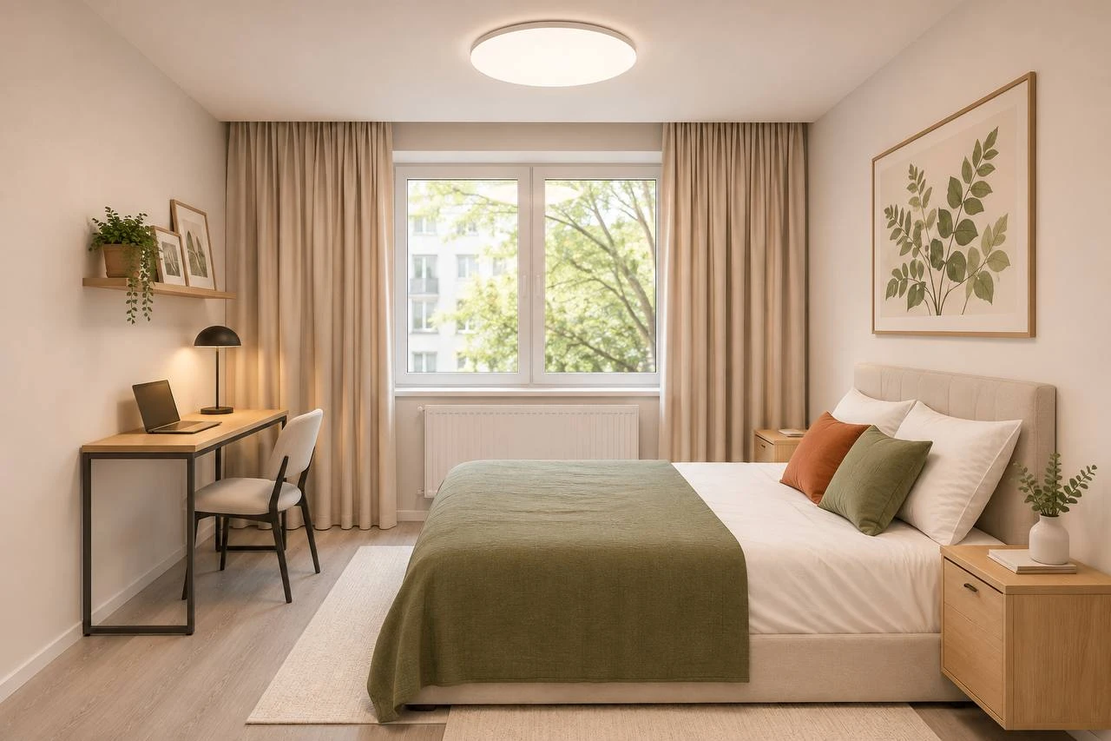
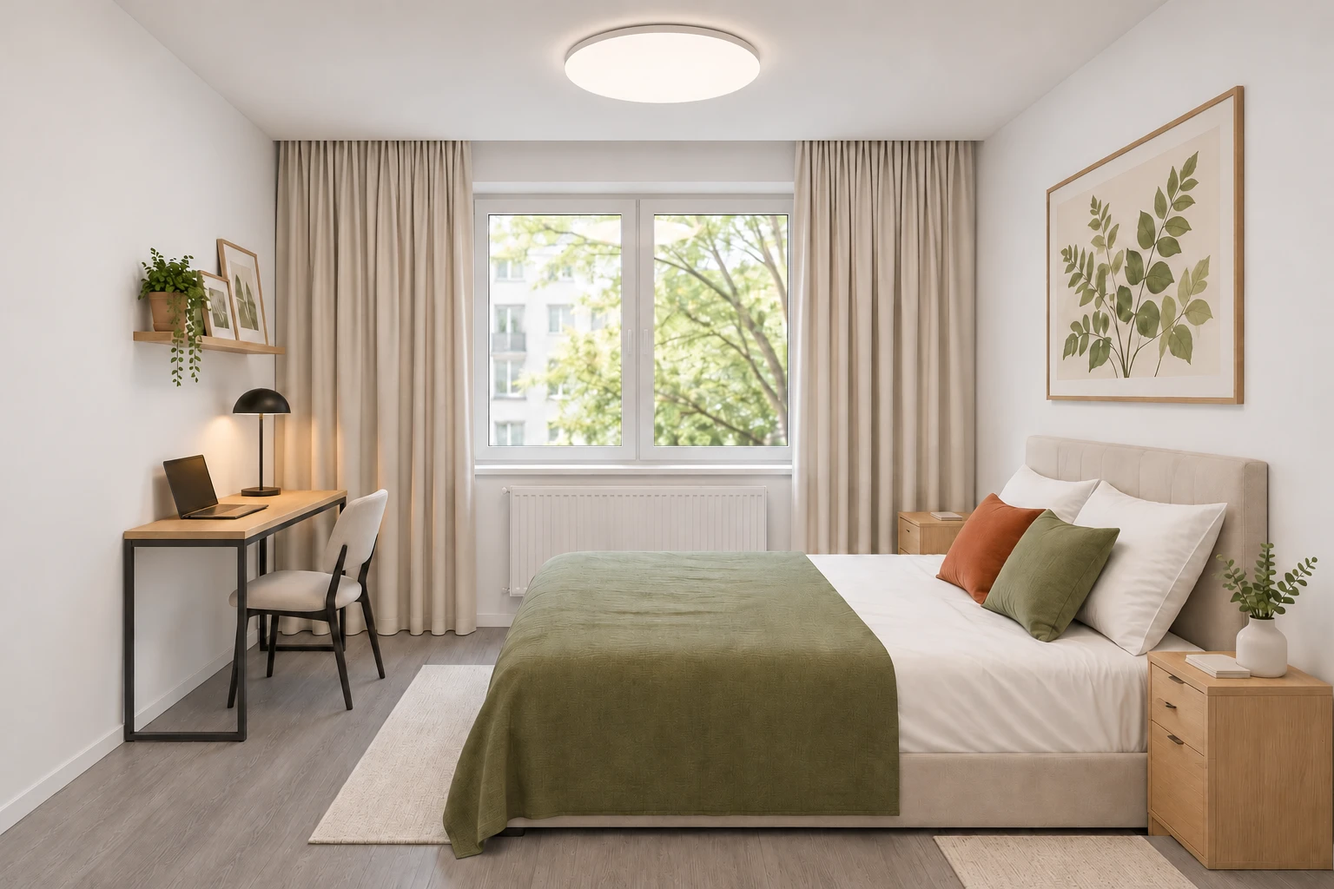
Спальня: новые рендеры, круглый светильник застройщика, без бра

diff --git a/docs/razmery.html b/docs/razmery.html
@@ -174,7 +174,7 @@ html[data-v="belyj"] [data-only="shalfej"],html[data-v="shalfej"] [data-only="be
 </head>
 <body>
 <div class="topbar"><div class="topbar-in"><div class="vsw"><span class="lbl">Вариант</span><button type="button" data-pick="belyj" aria-pressed="false"><span class="sw" style="background:#F4F3EF"></span>Белый</button><button type="button" data-pick="shalfej" aria-pressed="false"><span class="sw" style="background:#8E9C8F"></span>Шалфей</button></div><nav class="nav" aria-label="Страницы"><a href="index.html" data-keep="index.html">Визуализации</a><a href="planirovki.html" data-keep="planirovki.html">Планировки</a><a href="razmery.html" data-keep="razmery.html" aria-current="page">Размеры</a><a href="podbor.html" data-keep="podbor.html">Общая</a><a href="prihozhaya.html" data-keep="prihozhaya.html">Прихожая</a><a href="kuhnya.html" data-keep="kuhnya.html">Кухня</a><a href="stolovaya.html" data-keep="stolovaya.html">Столовая</a><a href="gostinaya.html" data-keep="gostinaya.html">Гостиная</a><a href="spalnya.html" data-keep="spalnya.html">Спальня</a><a href="rabochee-mesto.html" data-keep="rabochee-mesto.html">Рабочее место</a></nav></div></div>
-<div class="wrap" style="margin-top:28px"><header><div class="eyebrow">Шишкина · Финал 2</div><h1>Размеры и пределы</h1><p class="lead">Максимумы посчитаны по плану «Финал 2» в масштабе (1 клетка ≈ 100 мм) и проходам из него. Это ориентиры при подборе замены, а не замеры: высоту потолка, дверь санузла, щиток и розетки под ТВ ещё нужно замерить.</p><div class="legend"><div><span class="chip tight">впритык</span> Впритык: запас до 5 см или нет стандартных вариантов. Размер брать именно такой.</div><div><span class="chip check">проверить</span> Проверить: размер или комплектация не подтверждены, нужна сверка с карточкой или замером.</div></div></header><section><h2>Палитра <small>Из листа «Палитра» и «Цвета и материалы» (вариант Финал 2). Оттенки с картинки, примерные.</small></h2><h3 class="palh">Уже есть, не меняем</h3><div class="pal"><div><i style="background:#EBEBEA"></i><span>Стены<br><small>почти белые</small></span></div><div><i style="background:#FFFFFF"></i><span>Плинтус, двери, потолок<br><small>белые</small></span></div><div><i style="background:#878684"></i><span>Ламинат<br><small>серый дуб</small></span></div><div><i style="background:#4B4A48"></i><span>Керамогранит<br><small>«камень», кухонная зона</small></span></div></div><h3 class="palh">Добавляем</h3><div class="pal"><div><i style="background:#8E9C8F"></i><span>Шалфей<br><small>диван, низ кухни в «Шалфее»</small></span></div><div><i style="background:#6F7559"></i><span>Олива<br><small>покрывало, подушки</small></span></div><div><i style="background:#CDB99D"></i><span>Дуб натуральный<br><small>стол, тумбы, рамы</small></span></div><div><i style="background:#E6DFD3"></i><span>Лён<br><small>шторы, ковры, плед</small></span></div><div><i style="background:#F2F0EC"></i><span>Белый матовый<br><small>шкафы, верх кухни</small></span></div><div><i style="background:#C9C7C2"></i><span>Камень / бетон<br><small>столешница</small></span></div><div><i style="background:#B7765A"></i><span>Терракота<br><small>мелочи: вазы, подушка, кашпо</small></span></div><div><i style="background:#2F3033"></i><span>Графит<br><small>ручки, ножки, светильники</small></span></div></div></section><section><h2>Прихожая <small><a href="prihozhaya.html" data-keep="prihozhaya.html">страница комнаты</a></small></h2><div class="tblwrap"><table class="sizes"><thead><tr><th>Что</th><th>Взято в подборе</th><th>Цвет по дизайну</th><th>Максимум</th><th>Что ограничивает</th></tr></thead><tbody><tr class=""><td>Обувница</td><td class="hv">60×24 см, высота 104</td><td class="cl"><span class="dots"><i style="background:#CDB99D"></i><i style="background:#2F3033"></i></span>Дуб натуральный, ручки графит или без ручек</td><td class="mx">ширина ≤ 90, глубина ≤ 30</td><td class="why">Прихожая шириной 149 см: вдоль обувницы остаётся проход ≥ 115 см, дверь санузла открывается внутрь.</td></tr><tr class=""><td>Зеркало</td><td class="hv">40×150 см</td><td class="cl"><span class="dots"><i style="background:#CDB99D"></i></span>Тонкая рама дуб, в тон обувнице и рамам постеров</td><td class="mx">ширина ≤ 45, верх на 185–190 см</td><td class="why">Правая стена 188 см: обувница, крючки и зеркало стоят рядом, нужны просветы между ними.</td></tr><tr class=""><td>Крючки (планка)</td><td class="hv">5 штук, на 160–170 см</td><td class="cl"><span class="dots"><i style="background:#2F3033"></i></span>Графит / чёрный металл<span class="pickline"><span class="dots"><i style="background:#2F3033"></i><i style="background:#6B4A32"></i></span><b>В подборе:</b> Чёрный/орех: планка из тёмного ореха</span></td><td class="mx">длина ≤ 60 см</td><td class="why">Не шире обувницы под ними.</td></tr></tbody></table></div></section><section><h2>Кухня <small><a href="kuhnya.html" data-keep="kuhnya.html">страница комнаты</a></small></h2><div class="tblwrap"><table class="sizes"><thead><tr><th>Что</th><th>Взято в подборе</th><th>Цвет по дизайну</th><th>Максимум</th><th>Что ограничивает</th></tr></thead><tbody><tr class="check"><td>Кухонный гарнитур<span class="chip check">проверить</span></td><td class="hv">240×60 см, высота 222 (4 модуля по 60: мойка, шкаф, варка + духовка, столешница)</td><td class="cl"><span data-only="belyj"><span class="dots"><i style="background:#F2F0EC"></i></span>Вся кухня белая матовая: низ и верх до потолка<span class="pickline"><span class="dots"><i style="background:#F2F0EC"></i></span><b>В подборе:</b> Белый Техно-6, верх 222 см (не до потолка)</span></span><span data-only="shalfej"><span class="dots"><i style="background:#8E9C8F"></i><i style="background:#F2F0EC"></i></span>Низ шалфей #8E9C8F, верх белый матовый до потолка<span class="pickline"><span class="dots"><i style="background:#A5B5A0"></i></span><b>В подборе:</b> Зелёный Техно-6 весь, верх тоже зелёный, 222 см</span></span></td><td class="mx">длина вместе с холодильником ≤ 297 см, глубина ≤ 60</td><td class="why">От короба стояка до окна 297 см. Проход до дивана 145 см, не меньше 90.<span class="flagnote check">Фиксированный набор 240 см, модули не поменять. Высота 222 см: потолок не замерен. Входит ли столешница в комплект, не подтверждено.</span></td></tr><tr class="tight"><td>Холодильник<span class="chip tight">впритык</span></td><td class="hv">54×144 см (глубину проверить по карточке)</td><td class="cl"><span class="dots"><i style="background:#F2F0EC"></i></span>Белый</td><td class="mx">ширина ≤ 57, глубина ≤ 65</td><td class="why">297 см вдоль стены минус гарнитур 240 см. Гарнитур Техно-6 фиксированный (4 модуля по 60), поэтому холодильник 54 см встаёт с запасом 3 см, его закроет доборная планка. Холодильник 60 возможен только с другим гарнитуром, например 230 см (3×60 + 50). До стула у стола остаётся 83 см.<span class="flagnote tight">Стандартные отдельностоящие 60 см не встанут, подходят только 54–57. Глубину Maunfeld проверить по карточке.</span></td></tr><tr class=""><td>Варочная панель</td><td class="hv">60 см, 4 конфорки</td><td class="cl"><span class="dots"><i style="background:#1E1F21"></i></span>Чёрное стекло</td><td class="mx">ширина ≤ 60</td><td class="why">Ширина модуля.</td></tr><tr class=""><td>Духовой шкаф</td><td class="hv">59,5×59×52,5 см</td><td class="cl"><span class="dots"><i style="background:#1E1F21"></i></span>Чёрное стекло<span class="pickline"><span class="dots"><i style="background:#2F3033"></i></span><b>В подборе:</b> Чёрный/серый</span></td><td class="mx">ширина ≤ 60</td><td class="why">Встраивается в модуль 60 под варочной панелью.</td></tr><tr class=""><td>Мойка</td><td class="hv">50,5×51 см</td><td class="cl"><span class="dots"><i style="background:#2F3033"></i><i style="background:#C9C7C2"></i></span>Кварц графит или серый камень</td><td class="mx">ширина ≤ 55</td><td class="why">Встаёт в модуль 60.</td></tr></tbody></table></div></section><section><h2>Столовая <small><a href="stolovaya.html" data-keep="stolovaya.html">страница комнаты</a></small></h2><div class="tblwrap"><table class="sizes"><thead><tr><th>Что</th><th>Взято в подборе</th><th>Цвет по дизайну</th><th>Максимум</th><th>Что ограничивает</th></tr></thead><tbody><tr class="check"><td>Обеденный стол<span class="chip check">проверить</span></td><td class="hv">круглый Ø70 см</td><td class="cl"><span class="dots"><i style="background:#CDB99D"></i></span>Столешница дуб натуральный, ножки дуб<span class="pickline"><span class="dots"><i style="background:#F7F7F5"></i><i style="background:#D9B98F"></i></span><b>В подборе:</b> Белая столешница, ножки бук</span></td><td class="mx">Ø ≤ 80; раздвижной до 70×100</td><td class="why">От дивана до стола 75 см, не меньше 60. От холодильника до стула 83 см.<span class="flagnote check">Раздвижного круглого Ø70 в Лемане нет, текущий стол не раскладывается.</span></td></tr><tr class=""><td>Стулья</td><td class="hv">2 шт.</td><td class="cl"><span class="dots"><i style="background:#E6DFD3"></i><i style="background:#CDB99D"></i></span>Сиденье лён / светлая ткань, ножки дуб. Гостевой табурет дуб<span class="pickline"><span class="dots"><i style="background:#6E6E72"></i><i style="background:#2F3033"></i></span><b>В подборе:</b> Тёмно-серый велюр, ножки чёрный металл</span></td><td class="mx">2 за круглым Ø70, 3–4 только за раздвижным</td><td class="why">Третье место — гостевой табурет 43×45.</td></tr></tbody></table></div></section><section><h2>Гостиная <small><a href="gostinaya.html" data-keep="gostinaya.html">страница комнаты</a></small></h2><div class="tblwrap"><table class="sizes"><thead><tr><th>Что</th><th>Взято в подборе</th><th>Цвет по дизайну</th><th>Максимум</th><th>Что ограничивает</th></tr></thead><tbody><tr class="tight"><td>Диван<span class="chip tight">впритык</span></td><td class="hv">Belfor-3MH 200×97 см</td><td class="cl"><span class="dots"><i style="background:#BFC1BE"></i></span>Светло-серый велюр ~#BFC1BE, ножки дерево. Для «Белого» по дизайну был шалфей, решили серый: проще купить</td><td class="mx">ширина ≤ 207, глубина ≤ 100</td><td class="why">Диван у восточной стены. Вход в кухню между перегородкой и диваном 87 см, не меньше 80. До стола 75 см, не меньше 60.<span class="flagnote tight">Запас по ширине 3–5 см, по глубине 3 см (Belfor 97 при пределе 100). Не брать диван шире 207 и глубже 100.</span></td></tr><tr class="check"><td>Пуф<span class="chip check">проверить</span></td><td class="hv">80×45 см (на плане 80×57)</td><td class="cl"><span data-only="belyj"><span class="dots"><i style="background:#8E9C8F"></i></span>Шалфей #8E9C8F: акцент на сером диване</span><span data-only="shalfej"><span class="dots"><i style="background:#BFC1BE"></i></span>Светло-серый, как диван<span class="pickline"><span class="dots"><i style="background:#A8B5A0"></i></span><b>В подборе:</b> Светло-зелёный (не как диван)</span></span></td><td class="mx">≤ 90×60</td><td class="why">Стоит в ~30 см от дивана, до ТВ-тумбы остаётся ≥ 70 см.<span class="flagnote check">80×45: неясно, 45 — высота или глубина. На плане глубина 57. Сверить с карточкой.</span></td></tr><tr class="check"><td>Тумба под ТВ<span class="chip check">проверить</span></td><td class="hv">150×20×30 см</td><td class="cl"><span class="dots"><i style="background:#CDB99D"></i></span>Дуб натуральный, без ручек</td><td class="mx">ширина ≤ 180, глубина ≤ 30</td><td class="why">Центр по дивану, до восточной стены остаётся ≥ 15 см.<span class="flagnote check">Взята 150 см, на плане 160. Для ТВ 50″ хватает, но центр по дивану сдвинется.</span></td></tr><tr class=""><td>ТВ</td><td class="hv">50″, кронштейн до 55″</td><td class="cl"><span class="dots"><i style="background:#1E1F21"></i></span>Чёрный</td><td class="mx">не больше 50″</td><td class="why">От края дивана до экрана 1,4 м (около 1,8 м от глаз).</td></tr><tr class=""><td>Ковёр</td><td class="hv">160×230 см</td><td class="cl"><span class="dots"><i style="background:#E6DFD3"></i></span>Лён / молочный, короткий ворс, без рисунка</td><td class="mx">≤ 200×250</td><td class="why">Левый край не дальше торца дивана, в проход к кухне не выходит.</td></tr></tbody></table></div></section><section><h2>Спальня <small><a href="spalnya.html" data-keep="spalnya.html">страница комнаты</a></small></h2><div class="tblwrap"><table class="sizes"><thead><tr><th>Что</th><th>Взято в подборе</th><th>Цвет по дизайну</th><th>Максимум</th><th>Что ограничивает</th></tr></thead><tbody><tr class=""><td>Кровать</td><td class="hv">160×200 см</td><td class="cl"><span class="dots"><i style="background:#E6DFD3"></i><i style="background:#BFC1BE"></i></span>Светлый лён / светло-серая рогожка</td><td class="mx">ширина ≤ 160, длина ≤ 205</td><td class="why">Изголовьем к западной стене. До рабочего стола 67 см, не меньше 60. До шкафа 79 см.</td></tr><tr class="tight"><td>Прикроватные тумбы<span class="chip tight">впритык</span></td><td class="hv">40 см шириной (40×52×30)</td><td class="cl"><span class="dots"><i style="background:#CDB99D"></i></span>Дуб натуральный<span class="pickline"><span class="dots"><i style="background:#C9BBA6"></i></span><b>В подборе:</b> Дуб сонома (серее комано): сверить с остальным деревом</span></td><td class="mx">ширина ≤ 45, глубина ≤ 35</td><td class="why">Между кроватью и шкафом 79 см: тумба 40 оставляет около 40 см прохода.<span class="flagnote tight">Между кроватью и шкафом остаётся ~40 см прохода. Тумбы шире 45 не брать.</span></td></tr><tr class="tight"><td>Шкаф-купе<span class="chip tight">впритык</span></td><td class="hv">170×61 см, высота 220</td><td class="cl"><span class="dots"><i style="background:#F2F0EC"></i><i style="background:#C9CCCD"></i></span>Белый матовый, профиль белый, одна створка зеркало</td><td class="mx">ширина ≤ 171, глубина ≤ 64</td><td class="why">Ниша 171×64 см, ширину проверить по замеру. Высота до потолка, потолок не замерен.<span class="flagnote tight">Ниша 171 см, шкаф 170: запас 1 см. Точный замер ниши обязателен. Высота 220 см: потолок не замерен.</span></td></tr></tbody></table></div></section><section><h2>Рабочее место <small><a href="rabochee-mesto.html" data-keep="rabochee-mesto.html">страница комнаты</a></small></h2><div class="tblwrap"><table class="sizes"><thead><tr><th>Что</th><th>Взято в подборе</th><th>Цвет по дизайну</th><th>Максимум</th><th>Что ограничивает</th></tr></thead><tbody><tr class="tight"><td>Рабочий стол<span class="chip tight">впритык</span></td><td class="hv">100×50 см (высота 76)</td><td class="cl"><span class="dots"><i style="background:#CDB99D"></i><i style="background:#2F3033"></i></span>Столешница дуб, ножки графит<span class="pickline"><span class="dots"><i style="background:#2F3033"></i><i style="background:#B8926A"></i></span><b>В подборе:</b> Чёрный каркас, дуб крафт (теплее, рыжее)</span></td><td class="mx">глубина ≤ 52, длина ≤ 120</td><td class="why">Стол в углу у окна. До кровати 67 см при глубине 45, при 50 остаётся 62 см, не меньше 60.<span class="flagnote tight">Глубина 50 оставляет 62 см до кровати при минимуме 60. Стол глубже 52 не брать.</span></td></tr><tr class=""><td>Полка над столом</td><td class="hv">80×20 см</td><td class="cl"><span class="dots"><i style="background:#CDB99D"></i></span>Дуб натуральный<span class="pickline"><span class="dots"><i style="background:#C9BBA6"></i></span><b>В подборе:</b> Дуб сонома: сверить</span></td><td class="mx">ширина ≤ 100, глубина ≤ 25</td><td class="why">Не шире стола под ней.</td></tr></tbody></table></div></section><section id="series"><h2>Что брать одной серией</h2><div class="series"><article><h3>Дерево: светлый дуб без рыжины</h3><ul><li>Лион: обувница и ТВ-тумба уже одной серии, «дуб комано».</li><li>Спальня: тумбы Monofix и полка ТриЯ в «дубе сонома», а стол Leset в «дубе крафт», он теплее и рыжее. Всё стоит в одном кадре, стол лучше взять в «сонома».</li><li>Рамки Inspire Milo «дуб» сверить с остальным деревом по образцу.</li></ul></article><article><h3>Чёрный металл: один тон, матовый графит</h3><ul><li>Торшер, бра, настольная лампа, смеситель, ручки, кронштейн ТВ, ножки стульев: без глянца и хрома.</li><li>Крючки Domart «чёрный/орех»: основа из тёмного ореха, а нужен светлый дуб. Искать чёрные без ореховой планки.</li><li>Духовка Homsair «чёрный/серый» и варочная Simfer чёрная стоят рядом: посмотреть вживую.</li></ul></article><article><h3>Свет: везде 2700 K</h3><ul><li>LED-лента под шкафами (у Wolta цвет регулируется, выставить 2700), точки в потолке, бра, торшер.</li><li>Разная температура света в одной комнате портит вид сильнее всего.</li></ul></article><article><h3>Текстиль: одна партия</h3><ul><li>Шторы блэкаут (2 в гостиной и 2 в спальне, одна модель), оливковые подушки (2 шт.) и тюль покупать одним заказом, иначе оттенок отличается между партиями.</li><li>Покрывало Этель «оливковое» ближе к мятному, а подушки и диван оливковые. Проверить цвет по фото в отзывах или вживую.</li></ul></article><article><h3>Стулья: одна модель</h3><ul><li>Chic, велюр серый, ножки чёрные: тот же в столовой и у рабочего стола. Брать три сразу.</li></ul></article><article><h3>Белый: сверить подтон</h3><ul><li>Белый холодильник и белые фасады кухни в варианте «Белый» могут быть разного подтона. По возможности смотреть вживую или брать образцы рядом.</li></ul></article></div><p class="freeline">Можно не подбирать под одну серию: диван и пуф (разные ткани и цвета нужны для контраста), ковёр, коврики у кровати, постеры, вазы, растения.</p></section></div>
+<div class="wrap" style="margin-top:28px"><header><div class="eyebrow">Шишкина · Финал 2</div><h1>Размеры и пределы</h1><p class="lead">Максимумы посчитаны по плану «Финал 2» в масштабе (1 клетка ≈ 100 мм) и проходам из него. Это ориентиры при подборе замены, а не замеры: высоту потолка, дверь санузла, щиток и розетки под ТВ ещё нужно замерить.</p><div class="legend"><div><span class="chip tight">впритык</span> Впритык: запас до 5 см или нет стандартных вариантов. Размер брать именно такой.</div><div><span class="chip check">проверить</span> Проверить: размер или комплектация не подтверждены, нужна сверка с карточкой или замером.</div></div></header><section><h2>Палитра <small>Из листа «Палитра» и «Цвета и материалы» (вариант Финал 2). Оттенки с картинки, примерные.</small></h2><h3 class="palh">Уже есть, не меняем</h3><div class="pal"><div><i style="background:#EBEBEA"></i><span>Стены<br><small>почти белые</small></span></div><div><i style="background:#FFFFFF"></i><span>Плинтус, двери, потолок<br><small>белые</small></span></div><div><i style="background:#878684"></i><span>Ламинат<br><small>серый дуб</small></span></div><div><i style="background:#4B4A48"></i><span>Керамогранит<br><small>«камень», кухонная зона</small></span></div></div><h3 class="palh">Добавляем</h3><div class="pal"><div><i style="background:#8E9C8F"></i><span>Шалфей<br><small>диван, низ кухни в «Шалфее»</small></span></div><div><i style="background:#6F7559"></i><span>Олива<br><small>покрывало, подушки</small></span></div><div><i style="background:#CDB99D"></i><span>Дуб натуральный<br><small>стол, тумбы, рамы</small></span></div><div><i style="background:#E6DFD3"></i><span>Лён<br><small>шторы, ковры, плед</small></span></div><div><i style="background:#F2F0EC"></i><span>Белый матовый<br><small>шкафы, верх кухни</small></span></div><div><i style="background:#C9C7C2"></i><span>Камень / бетон<br><small>столешница</small></span></div><div><i style="background:#B7765A"></i><span>Терракота<br><small>мелочи: вазы, подушка, кашпо</small></span></div><div><i style="background:#2F3033"></i><span>Графит<br><small>ручки, ножки, светильники</small></span></div></div></section><section><h2>Прихожая <small><a href="prihozhaya.html" data-keep="prihozhaya.html">страница комнаты</a></small></h2><div class="tblwrap"><table class="sizes"><thead><tr><th>Что</th><th>Взято в подборе</th><th>Цвет по дизайну</th><th>Максимум</th><th>Что ограничивает</th></tr></thead><tbody><tr class=""><td>Обувница</td><td class="hv">60×24 см, высота 104</td><td class="cl"><span class="dots"><i style="background:#CDB99D"></i><i style="background:#2F3033"></i></span>Дуб натуральный, ручки графит или без ручек</td><td class="mx">ширина ≤ 90, глубина ≤ 30</td><td class="why">Прихожая шириной 149 см: вдоль обувницы остаётся проход ≥ 115 см, дверь санузла открывается внутрь.</td></tr><tr class=""><td>Зеркало</td><td class="hv">40×150 см</td><td class="cl"><span class="dots"><i style="background:#CDB99D"></i></span>Тонкая рама дуб, в тон обувнице и рамам постеров</td><td class="mx">ширина ≤ 45, верх на 185–190 см</td><td class="why">Правая стена 188 см: обувница, крючки и зеркало стоят рядом, нужны просветы между ними.</td></tr><tr class=""><td>Крючки (планка)</td><td class="hv">5 штук, на 160–170 см</td><td class="cl"><span class="dots"><i style="background:#2F3033"></i></span>Графит / чёрный металл<span class="pickline"><span class="dots"><i style="background:#2F3033"></i><i style="background:#6B4A32"></i></span><b>В подборе:</b> Чёрный/орех: планка из тёмного ореха</span></td><td class="mx">длина ≤ 60 см</td><td class="why">Не шире обувницы под ними.</td></tr></tbody></table></div></section><section><h2>Кухня <small><a href="kuhnya.html" data-keep="kuhnya.html">страница комнаты</a></small></h2><div class="tblwrap"><table class="sizes"><thead><tr><th>Что</th><th>Взято в подборе</th><th>Цвет по дизайну</th><th>Максимум</th><th>Что ограничивает</th></tr></thead><tbody><tr class="check"><td>Кухонный гарнитур<span class="chip check">проверить</span></td><td class="hv">240×60 см, высота 222 (4 модуля по 60: мойка, шкаф, варка + духовка, столешница)</td><td class="cl"><span data-only="belyj"><span class="dots"><i style="background:#F2F0EC"></i></span>Вся кухня белая матовая: низ и верх до потолка<span class="pickline"><span class="dots"><i style="background:#F2F0EC"></i></span><b>В подборе:</b> Белый Техно-6, верх 222 см (не до потолка)</span></span><span data-only="shalfej"><span class="dots"><i style="background:#8E9C8F"></i><i style="background:#F2F0EC"></i></span>Низ шалфей #8E9C8F, верх белый матовый до потолка<span class="pickline"><span class="dots"><i style="background:#A5B5A0"></i></span><b>В подборе:</b> Зелёный Техно-6 весь, верх тоже зелёный, 222 см</span></span></td><td class="mx">длина вместе с холодильником ≤ 297 см, глубина ≤ 60</td><td class="why">От короба стояка до окна 297 см. Проход до дивана 145 см, не меньше 90.<span class="flagnote check">Фиксированный набор 240 см, модули не поменять. Высота 222 см: потолок не замерен. Входит ли столешница в комплект, не подтверждено.</span></td></tr><tr class="tight"><td>Холодильник<span class="chip tight">впритык</span></td><td class="hv">54×144 см (глубину проверить по карточке)</td><td class="cl"><span class="dots"><i style="background:#F2F0EC"></i></span>Белый</td><td class="mx">ширина ≤ 57, глубина ≤ 65</td><td class="why">297 см вдоль стены минус гарнитур 240 см. Гарнитур Техно-6 фиксированный (4 модуля по 60), поэтому холодильник 54 см встаёт с запасом 3 см, его закроет доборная планка. Холодильник 60 возможен только с другим гарнитуром, например 230 см (3×60 + 50). До стула у стола остаётся 83 см.<span class="flagnote tight">Стандартные отдельностоящие 60 см не встанут, подходят только 54–57. Глубину Maunfeld проверить по карточке.</span></td></tr><tr class=""><td>Варочная панель</td><td class="hv">60 см, 4 конфорки</td><td class="cl"><span class="dots"><i style="background:#1E1F21"></i></span>Чёрное стекло</td><td class="mx">ширина ≤ 60</td><td class="why">Ширина модуля.</td></tr><tr class=""><td>Духовой шкаф</td><td class="hv">59,5×59×52,5 см</td><td class="cl"><span class="dots"><i style="background:#1E1F21"></i></span>Чёрное стекло<span class="pickline"><span class="dots"><i style="background:#2F3033"></i></span><b>В подборе:</b> Чёрный/серый</span></td><td class="mx">ширина ≤ 60</td><td class="why">Встраивается в модуль 60 под варочной панелью.</td></tr><tr class=""><td>Мойка</td><td class="hv">50,5×51 см</td><td class="cl"><span class="dots"><i style="background:#2F3033"></i><i style="background:#C9C7C2"></i></span>Кварц графит или серый камень</td><td class="mx">ширина ≤ 55</td><td class="why">Встаёт в модуль 60.</td></tr></tbody></table></div></section><section><h2>Столовая <small><a href="stolovaya.html" data-keep="stolovaya.html">страница комнаты</a></small></h2><div class="tblwrap"><table class="sizes"><thead><tr><th>Что</th><th>Взято в подборе</th><th>Цвет по дизайну</th><th>Максимум</th><th>Что ограничивает</th></tr></thead><tbody><tr class="check"><td>Обеденный стол<span class="chip check">проверить</span></td><td class="hv">круглый Ø70 см</td><td class="cl"><span class="dots"><i style="background:#CDB99D"></i></span>Столешница дуб натуральный, ножки дуб<span class="pickline"><span class="dots"><i style="background:#F7F7F5"></i><i style="background:#D9B98F"></i></span><b>В подборе:</b> Белая столешница, ножки бук</span></td><td class="mx">Ø ≤ 80; раздвижной до 70×100</td><td class="why">От дивана до стола 75 см, не меньше 60. От холодильника до стула 83 см.<span class="flagnote check">Раздвижного круглого Ø70 в Лемане нет, текущий стол не раскладывается.</span></td></tr><tr class=""><td>Стулья</td><td class="hv">2 шт.</td><td class="cl"><span class="dots"><i style="background:#E6DFD3"></i><i style="background:#CDB99D"></i></span>Сиденье лён / светлая ткань, ножки дуб. Гостевой табурет дуб<span class="pickline"><span class="dots"><i style="background:#6E6E72"></i><i style="background:#2F3033"></i></span><b>В подборе:</b> Тёмно-серый велюр, ножки чёрный металл</span></td><td class="mx">2 за круглым Ø70, 3–4 только за раздвижным</td><td class="why">Третье место — гостевой табурет 43×45.</td></tr></tbody></table></div></section><section><h2>Гостиная <small><a href="gostinaya.html" data-keep="gostinaya.html">страница комнаты</a></small></h2><div class="tblwrap"><table class="sizes"><thead><tr><th>Что</th><th>Взято в подборе</th><th>Цвет по дизайну</th><th>Максимум</th><th>Что ограничивает</th></tr></thead><tbody><tr class="tight"><td>Диван<span class="chip tight">впритык</span></td><td class="hv">Belfor-3MH 200×97 см</td><td class="cl"><span class="dots"><i style="background:#BFC1BE"></i></span>Светло-серый велюр ~#BFC1BE, ножки дерево. Для «Белого» по дизайну был шалфей, решили серый: проще купить</td><td class="mx">ширина ≤ 207, глубина ≤ 100</td><td class="why">Диван у восточной стены. Вход в кухню между перегородкой и диваном 87 см, не меньше 80. До стола 75 см, не меньше 60.<span class="flagnote tight">Запас по ширине 3–5 см, по глубине 3 см (Belfor 97 при пределе 100). Не брать диван шире 207 и глубже 100.</span></td></tr><tr class="check"><td>Пуф<span class="chip check">проверить</span></td><td class="hv">80×45 см (на плане 80×57)</td><td class="cl"><span data-only="belyj"><span class="dots"><i style="background:#8E9C8F"></i></span>Шалфей #8E9C8F: акцент на сером диване</span><span data-only="shalfej"><span class="dots"><i style="background:#BFC1BE"></i></span>Светло-серый, как диван<span class="pickline"><span class="dots"><i style="background:#A8B5A0"></i></span><b>В подборе:</b> Светло-зелёный (не как диван)</span></span></td><td class="mx">≤ 90×60</td><td class="why">Стоит в ~30 см от дивана, до ТВ-тумбы остаётся ≥ 70 см.<span class="flagnote check">80×45: неясно, 45 — высота или глубина. На плане глубина 57. Сверить с карточкой.</span></td></tr><tr class="check"><td>Тумба под ТВ<span class="chip check">проверить</span></td><td class="hv">150×20×30 см</td><td class="cl"><span class="dots"><i style="background:#CDB99D"></i></span>Дуб натуральный, без ручек</td><td class="mx">ширина ≤ 180, глубина ≤ 30</td><td class="why">Центр по дивану, до восточной стены остаётся ≥ 15 см.<span class="flagnote check">Взята 150 см, на плане 160. Для ТВ 50″ хватает, но центр по дивану сдвинется.</span></td></tr><tr class=""><td>ТВ</td><td class="hv">50″, кронштейн до 55″</td><td class="cl"><span class="dots"><i style="background:#1E1F21"></i></span>Чёрный</td><td class="mx">не больше 50″</td><td class="why">От края дивана до экрана 1,4 м (около 1,8 м от глаз).</td></tr><tr class=""><td>Ковёр</td><td class="hv">160×230 см</td><td class="cl"><span class="dots"><i style="background:#E6DFD3"></i></span>Лён / молочный, короткий ворс, без рисунка</td><td class="mx">≤ 200×250</td><td class="why">Левый край не дальше торца дивана, в проход к кухне не выходит.</td></tr></tbody></table></div></section><section><h2>Спальня <small><a href="spalnya.html" data-keep="spalnya.html">страница комнаты</a></small></h2><div class="tblwrap"><table class="sizes"><thead><tr><th>Что</th><th>Взято в подборе</th><th>Цвет по дизайну</th><th>Максимум</th><th>Что ограничивает</th></tr></thead><tbody><tr class=""><td>Кровать</td><td class="hv">160×200 см</td><td class="cl"><span class="dots"><i style="background:#E6DFD3"></i><i style="background:#BFC1BE"></i></span>Светлый лён / светло-серая рогожка</td><td class="mx">ширина ≤ 160, длина ≤ 205</td><td class="why">Изголовьем к западной стене. До рабочего стола 67 см, не меньше 60. До шкафа 79 см.</td></tr><tr class="tight"><td>Прикроватные тумбы<span class="chip tight">впритык</span></td><td class="hv">40 см шириной (40×52×30)</td><td class="cl"><span class="dots"><i style="background:#CDB99D"></i></span>Дуб натуральный<span class="pickline"><span class="dots"><i style="background:#C9BBA6"></i></span><b>В подборе:</b> Дуб сонома (серее комано): сверить с остальным деревом</span></td><td class="mx">ширина ≤ 45, глубина ≤ 35</td><td class="why">Между кроватью и шкафом 79 см: тумба 40 оставляет около 40 см прохода.<span class="flagnote tight">Между кроватью и шкафом остаётся ~40 см прохода. Тумбы шире 45 не брать.</span></td></tr><tr class="tight"><td>Шкаф-купе<span class="chip tight">впритык</span></td><td class="hv">170×61 см, высота 220</td><td class="cl"><span class="dots"><i style="background:#F2F0EC"></i><i style="background:#C9CCCD"></i></span>Белый матовый, профиль белый, одна створка зеркало</td><td class="mx">ширина ≤ 171, глубина ≤ 64</td><td class="why">Ниша 171×64 см, ширину проверить по замеру. Высота до потолка, потолок не замерен.<span class="flagnote tight">Ниша 171 см, шкаф 170: запас 1 см. Точный замер ниши обязателен. Высота 220 см: потолок не замерен.</span></td></tr></tbody></table></div></section><section><h2>Рабочее место <small><a href="rabochee-mesto.html" data-keep="rabochee-mesto.html">страница комнаты</a></small></h2><div class="tblwrap"><table class="sizes"><thead><tr><th>Что</th><th>Взято в подборе</th><th>Цвет по дизайну</th><th>Максимум</th><th>Что ограничивает</th></tr></thead><tbody><tr class="tight"><td>Рабочий стол<span class="chip tight">впритык</span></td><td class="hv">100×50 см (высота 76)</td><td class="cl"><span class="dots"><i style="background:#CDB99D"></i><i style="background:#2F3033"></i></span>Столешница дуб, ножки графит<span class="pickline"><span class="dots"><i style="background:#2F3033"></i><i style="background:#B8926A"></i></span><b>В подборе:</b> Чёрный каркас, дуб крафт (теплее, рыжее)</span></td><td class="mx">глубина ≤ 52, длина ≤ 120</td><td class="why">Стол в углу у окна. До кровати 67 см при глубине 45, при 50 остаётся 62 см, не меньше 60.<span class="flagnote tight">Глубина 50 оставляет 62 см до кровати при минимуме 60. Стол глубже 52 не брать.</span></td></tr><tr class=""><td>Полка над столом</td><td class="hv">80×20 см</td><td class="cl"><span class="dots"><i style="background:#CDB99D"></i></span>Дуб натуральный<span class="pickline"><span class="dots"><i style="background:#C9BBA6"></i></span><b>В подборе:</b> Дуб сонома: сверить</span></td><td class="mx">ширина ≤ 100, глубина ≤ 25</td><td class="why">Не шире стола под ней.</td></tr></tbody></table></div></section><section id="series"><h2>Что брать одной серией</h2><div class="series"><article><h3>Дерево: светлый дуб без рыжины</h3><ul><li>Лион: обувница и ТВ-тумба уже одной серии, «дуб комано».</li><li>Спальня: тумбы Monofix и полка ТриЯ в «дубе сонома», а стол Leset в «дубе крафт», он теплее и рыжее. Всё стоит в одном кадре, стол лучше взять в «сонома».</li><li>Рамки Inspire Milo «дуб» сверить с остальным деревом по образцу.</li></ul></article><article><h3>Чёрный металл: один тон, матовый графит</h3><ul><li>Торшер, бра, настольная лампа, смеситель, ручки, кронштейн ТВ, ножки стульев: без глянца и хрома.</li><li>Крючки Domart «чёрный/орех»: основа из тёмного ореха, а нужен светлый дуб. Искать чёрные без ореховой планки.</li><li>Духовка Homsair «чёрный/серый» и варочная Simfer чёрная стоят рядом: посмотреть вживую.</li></ul></article><article><h3>Свет: везде 2700 K</h3><ul><li>LED-лента под шкафами (у Wolta цвет регулируется, выставить 2700), штатные потолочные светильники застройщика (в спальне круглый), торшер, настольная лампа. Бра не покупаем.</li><li>Разная температура света в одной комнате портит вид сильнее всего.</li></ul></article><article><h3>Текстиль: одна партия</h3><ul><li>Шторы блэкаут (2 в гостиной и 2 в спальне, одна модель), оливковые подушки (2 шт.) и тюль покупать одним заказом, иначе оттенок отличается между партиями.</li><li>Покрывало Этель «оливковое» ближе к мятному, а подушки и диван оливковые. Проверить цвет по фото в отзывах или вживую.</li></ul></article><article><h3>Стулья: одна модель</h3><ul><li>Chic, велюр серый, ножки чёрные: тот же в столовой и у рабочего стола. Брать три сразу.</li></ul></article><article><h3>Белый: сверить подтон</h3><ul><li>Белый холодильник и белые фасады кухни в варианте «Белый» могут быть разного подтона. По возможности смотреть вживую или брать образцы рядом.</li></ul></article></div><p class="freeline">Можно не подбирать под одну серию: диван и пуф (разные ткани и цвета нужны для контраста), ковёр, коврики у кровати, постеры, вазы, растения.</p></section></div>
 <script>
 (function(){var d=document.documentElement;
 function apply(v,save){

diff --git a/vizualizacii/РџСЂРѕРјРїС‚_Р‘РµР»С‹Р№.md b/vizualizacii/РџСЂРѕРјРїС‚_Р‘РµР»С‹Р№.md
@@ -87,7 +87,8 @@
   - декоративные подушки: одна шалфейная, одна терракотовая.
 - **По бокам кровати:**
   - две прикроватные тумбы 40 см из светлого дуба;
-  - над ними графитовые бра.
+  - бра нет, стены над тумбами пустые.
+- **На потолке** — штатный круглый плоский белый светильник от застройщика, по центру комнаты.
 - **Над изголовьем** — горизонтальный постер 100×70 в тонкой дубовой раме, низ на 25 см выше изголовья.
 - **На северной стене в нише** (сзади, частично в кадре) — шкаф-купе 170 см до потолка: белый матовый, одна створка зеркальная.
 - **Южная стена** — окно 1,9 м с льняными шторами блэкаут до пола.
@@ -121,6 +122,7 @@
 - Ставит стол в центр → «стол стоит у окна, справа от балконной двери».
 - Рыжее дерево → «дуб светлый, холодно-натуральный, без рыжины».
 - Диван большой или угловой → «прямой трёхместный диван 200 см, высокие деревянные ножки, без углового модуля».
-- Круглый потолочный светильник → «никаких накладных и подвесных светильников, только встроенные точки».
+- Круглый потолочный светильник → в кухне-гостиной «никаких накладных и подвесных светильников, только встроенные точки»; в спальне круглый плоский светильник остаётся.
+- Бра в спальне → «настенных светильников нет».
 - Окно по центру стены → «окно и дверь смещены вправо, слева глухая стена 40% ширины с длинным радиатором».
 - Штора «в середине» → «тюль единым полотном на всю ширину, портьеры по краям симметрично».

diff --git a/vizualizacii/РџСЂРѕРјРїС‚_РЁР°Р»С„РµР№.md b/vizualizacii/РџСЂРѕРјРїС‚_РЁР°Р»С„РµР№.md
@@ -95,7 +95,8 @@
   - декоративные подушки: одна шалфейная, одна терракотовая.
 - **По бокам кровати:**
   - две прикроватные тумбы 40 см из светлого дуба;
-  - над ними графитовые бра.
+  - бра нет, стены над тумбами пустые.
+- **На потолке** — штатный круглый плоский белый светильник от застройщика, по центру комнаты.
 - **Над изголовьем** — горизонтальный постер 100×70 в тонкой дубовой раме, низ на 25 см выше изголовья.
 - **На северной стене в нише** (сзади, частично в кадре) — шкаф-купе 170 см до потолка: белый матовый, одна створка зеркальная.
 - **Южная стена** — окно 1,9 м с льняными шторами блэкаут до пола.
